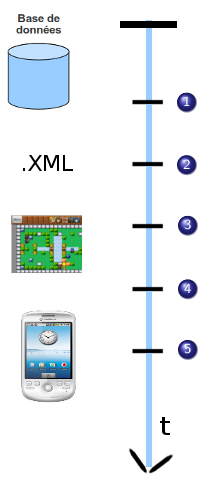
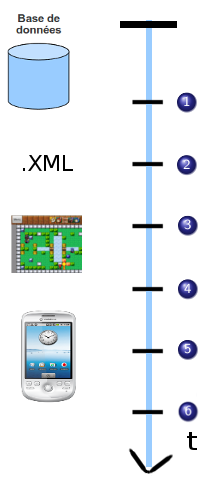
mise à jour demarrage et serveur

Changed region(s): [[0.7909, 0.8125, 0.9, 0.9375], [0.6, 0.8438, 0.7636, 0.9062], [0.6545, 0.9688, 0.6818, 1.0]]

diff --git a/doc/Soutenance BomberKlob/application.tex b/doc/Soutenance BomberKlob/application.tex
@@ -6,16 +6,27 @@
 	\begin{frame}
 	\frametitle{Application}
 	\framesubtitle{Chargement de l'application}
-	Premier chargement:
-	\begin{enumerate}
-		\item Création de la base de données
-		\item Récupération de toutes les ressources dans le fichier XML
-		\item Instanciation des objets grâce aux ressources récupérées
-		\item Copie des cartes dans le répertoire d'installation du téléphone
-		\item Initialisation  de la base de données
-		\item Affichage de la page de création de compte local
-	\end{enumerate}
 	
+	
+	\begin{center}
+		\begin{tabular}{cc}
+			\begin{minipage}{8cm}
+				Premier chargement:
+				\begin{enumerate}
+					\item Création de la base de données
+					\item Récupération de toutes les ressources dans le fichier XML
+					\item Instanciation des objets grâce aux ressources récupérées
+					\item Copie des cartes dans le répertoire d'installation du téléphone
+					\item Initialisation  de la base de données
+					\item Affichage de la page de création de compte local
+				\end{enumerate}
+			\end{minipage} &
+			\begin{minipage}{4cm}
+				 \includegraphics[scale=0.35]{img/sequence_demarrage.png}
+			\end{minipage}\\
+		\end{tabular}
+	\end{center}
+
 	
 	\end{frame}
 	
@@ -23,13 +34,22 @@
 	\begin{frame}
 	\frametitle{Application}
 	\framesubtitle{Chargement de l'application}
-	Chargement standard:
-	\begin{enumerate}
-		\item Chargement de la base de données
-		\item Récupération de toutes les ressources dans le fichier XML
-		\item Instanciation des objets grâce aux ressources récupérées
-		\item Instanciation du dernier utilisateur
-	\end{enumerate}
+	\begin{center}
+		\begin{tabular}{cc}
+			\begin{minipage}{8cm}
+				Chargement standard:
+				\begin{enumerate}
+					\item Chargement de la base de données
+					\item Récupération de toutes les ressources dans le fichier XML
+					\item Instanciation des objets grâce aux ressources récupérées
+					\item Instanciation du dernier utilisateur
+				\end{enumerate}
+			\end{minipage} &
+			\begin{minipage}{4cm}
+				 \includegraphics[scale=0.35]{img/sequence_demarrage2.png}
+			\end{minipage}\\
+		\end{tabular}
+	\end{center}
 	
 	\end{frame}
 
@@ -152,10 +172,10 @@
 			\item Ajout/suppression d'éléments facile
 		\end{itemize}
 		
-		\begin{tiny}
-				\lstset{tabsize=1, frame=shadowbox, rulesepcolor=\color{blue}}
-		\lstinputlisting{code/objects.xml}
-		\end{tiny}
+		%\begin{tiny}
+		%		\lstset{tabsize=1, frame=shadowbox, rulesepcolor=\color{blue}}
+		%\lstinputlisting{code/objects.xml}
+		%\end{tiny}
 
 
 		

diff --git a/doc/Soutenance BomberKlob/soutenance.tex b/doc/Soutenance BomberKlob/soutenance.tex
@@ -28,6 +28,8 @@ L.DERUELLE \\ $\,$ \\
 Université Montpellier II }
 \subtitle{TER}
 
+\addtobeamertemplate{footline}{\hfill\insertframenumber/\inserttotalframenumber}
+
 \begin{document}
 
 \begin{frame}
